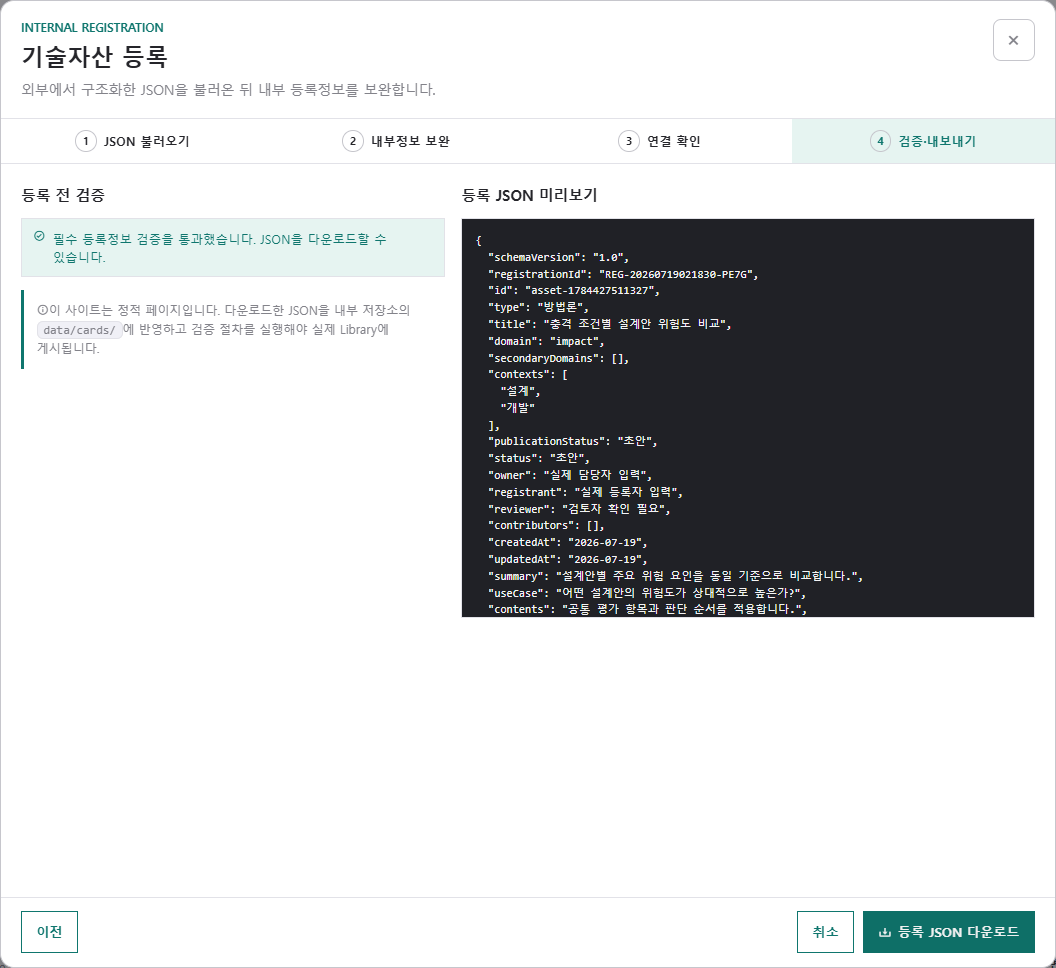
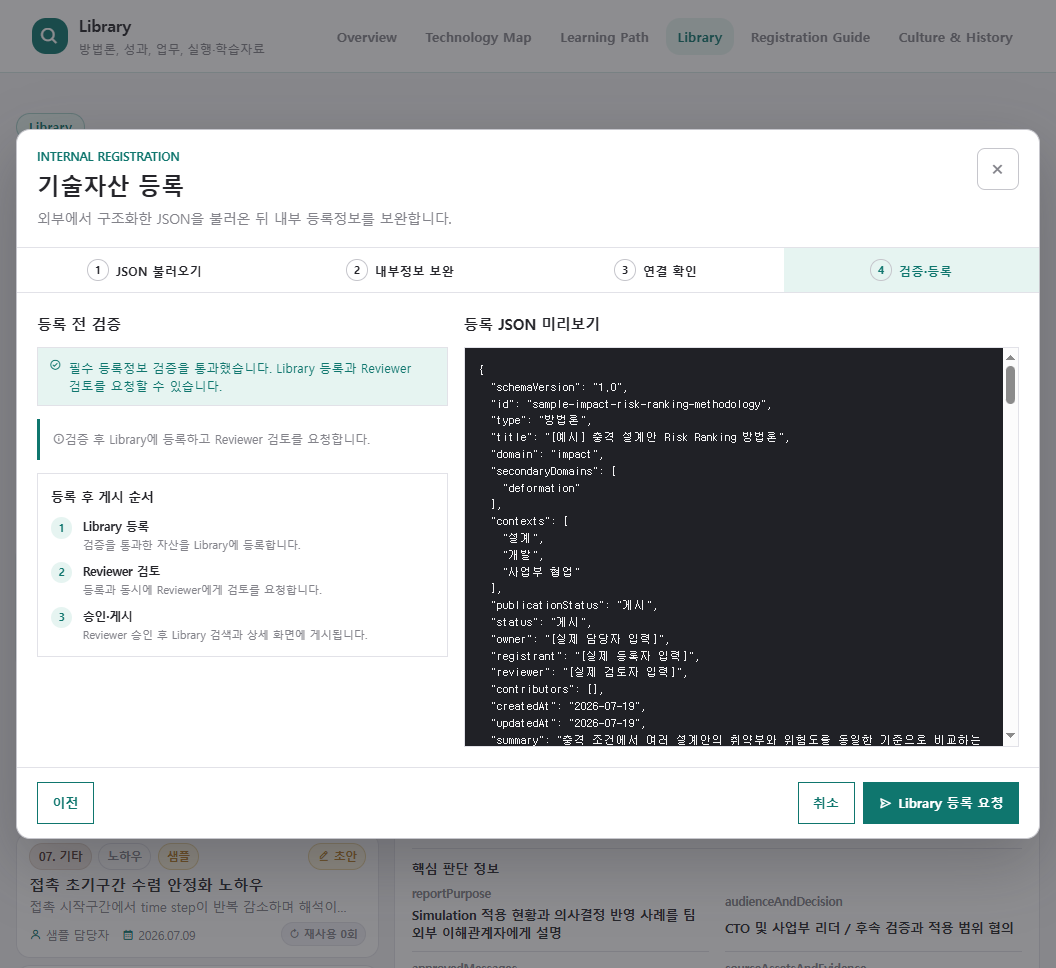
Align Library registration with internal submit flow

diff --git a/team_technical_assets_registration_modal.js b/team_technical_assets_registration_modal.js
@@ -44,6 +44,9 @@
     const importMessage = document.getElementById("registration-import-message");
     const preview = document.getElementById("registration-json-preview");
     const validation = document.getElementById("registration-validation");
+    const submitNote = document.getElementById("registration-submit-note") || form.querySelector(".registration-static-note");
+    const publishProcessTitle = document.getElementById("registration-publish-process-title");
+    const publishProcessList = document.getElementById("registration-publish-process-list") || form.querySelector(".registration-publish-process ol");
     const runtime = window.TECHNICAL_ASSET_RUNTIME ?? { mode: "static" };
     const repository = typeof window.createTechnicalAssetRepository === "function"
         ? window.createTechnicalAssetRepository(runtime)
@@ -60,6 +63,23 @@
     let internalLinks = [];
     let relationSearchPerformed = false;
     let registrationId = "";
+
+    function configureRegistrationCompletionUi() {
+        const finalIndicator = form.querySelector('[data-registration-step-indicator="4"]');
+        if (finalIndicator) finalIndicator.innerHTML = "<span>4</span>검증·등록";
+
+        if (submitNote) {
+            submitNote.innerHTML = '<i class="bx bx-info-circle"></i>검증 후 Library에 등록하고 Reviewer 검토를 요청합니다.';
+        }
+        if (publishProcessTitle) publishProcessTitle.textContent = "등록 후 게시 순서";
+        if (publishProcessList) {
+            publishProcessList.innerHTML = `
+                <li><span>1</span><div><strong>Library 등록</strong><p>검증을 통과한 자산을 Library에 등록합니다.</p></div></li>
+                <li><span>2</span><div><strong>Reviewer 검토</strong><p>등록과 동시에 Reviewer에게 검토를 요청합니다.</p></div></li>
+                <li><span>3</span><div><strong>승인·게시</strong><p>Reviewer 승인 후 Library 검색과 상세 화면에 게시됩니다.</p></div></li>
+            `;
+        }
+    }
 
     const field = (name) => form.elements.namedItem(name);
     const text = (value) => String(value ?? "").trim();
@@ -584,9 +604,9 @@
         const errors = validateCard(card);
         validation.innerHTML = errors.length
             ? errors.map((error) => `<div class="registration-validation-item is-error"><i class="bx bx-error-circle"></i><span>${error}</span></div>`).join("")
-            : `<div class="registration-validation-item is-success"><i class="bx bx-check-circle"></i><span>${isApiMode ? "필수 등록정보 검증을 통과했습니다. 사내 Library에 초안으로 저장할 수 있습니다." : "필수 등록정보 검증을 통과했습니다. 게시 요청용 JSON을 다운로드할 수 있습니다."}</span></div>`;
+            : '<div class="registration-validation-item is-success"><i class="bx bx-check-circle"></i><span>필수 등록정보 검증을 통과했습니다. Library 등록과 Reviewer 검토를 요청할 수 있습니다.</span></div>';
         preview.textContent = JSON.stringify(card, null, 2);
-        downloadButton.disabled = errors.length > 0;
+        downloadButton.disabled = errors.length > 0 || !repository;
     }
 
     function setStep(step) {
@@ -604,9 +624,7 @@
         previousButton.hidden = step === 1;
         nextButton.hidden = step === 4;
         downloadButton.hidden = step !== 4;
-        downloadButton.innerHTML = isApiMode
-            ? '<i class="bx bx-save"></i> Library 초안 저장'
-            : '<i class="bx bx-download"></i> 검증 완료 JSON 다운로드';
+        downloadButton.innerHTML = '<i class="bx bx-send"></i> Library 등록 요청';
         nextButton.textContent = step === 3 ? "검증하기" : "다음";
         nextButton.disabled = step === 1 && !sourcePacket;
         if (step === 3) {
@@ -774,8 +792,9 @@
         if (isApiMode && repository) {
             downloadButton.disabled = true;
             try {
-                await repository.createAsset({ ...card, workflowStatus: "초안" });
-                window.alert("사내 Library에 초안을 저장했습니다.");
+                const created = await repository.createAsset({ ...card, workflowStatus: "초안" });
+                await repository.submitAsset(created?.id || card.id);
+                window.alert("사내 Library 등록을 완료하고 Reviewer 검토를 요청했습니다.");
                 closeDialog();
             } catch (error) {
                 window.alert(error.message || "초안 저장 중 오류가 발생했습니다.");
@@ -784,17 +803,14 @@
             }
             return;
         }
-        const blob = new Blob([`${JSON.stringify(card, null, 2)}\n`], { type: "application/json;charset=utf-8" });
-        const anchor = document.createElement("a");
-        anchor.href = URL.createObjectURL(blob);
-        anchor.download = `${card.id}.json`;
-        anchor.click();
-        URL.revokeObjectURL(anchor.href);
+        window.alert("Library 등록과 Reviewer 검토 요청 흐름을 완료했습니다. Nexus 검토본에는 데이터가 저장되지 않습니다.");
+        closeDialog();
     });
     dialog.addEventListener("cancel", (event) => event.preventDefault());
     dialog.addEventListener("close", () => {
         document.body.classList.remove("asset-registration-open");
         window.setTimeout(() => returnFocus?.isConnected && returnFocus.focus({ preventScroll: true }), 0);
     });
+    configureRegistrationCompletionUi();
     if (window.location.hash === "#register") openDialog(document.getElementById("open-asset-registration"));
 })();

diff --git a/team_technical_assets_registration.js b/team_technical_assets_registration.js
@@ -328,7 +328,7 @@ const registrationStepDefinitions = [
         number: "04",
         phase: "INSIDE ONLY",
         title: "실제 정보 완성·검증·게시하기",
-        summary: "사내 정보 보완 → 게시용 등록 JSON 다운로드",
+        summary: "사내 정보 보완 → Library 등록·검토 요청",
         purpose: "일반화된 초안을 실제 사내 정보·근거·관계로 복원하고, 다른 팀원이 검색하고 재사용할 수 있는 Library 자산으로 완성합니다.",
         actions: [
             "실제 제목·조직·제품·과제 ID·조건·수치와 확인일을 사내에서 복원합니다.",
@@ -342,7 +342,7 @@ const registrationStepDefinitions = [
             "실제 근거와 원본 링크, 적용범위·한계·주의사항이 있습니다.",
             "검색 분류와 기존 자산 관계, Technology Map·Learning Path 연결 판단이 확인됐습니다.",
             "Owner·Reviewer와 사람의 최종 사실 확인을 완료했습니다.",
-            "검증을 통과한 JSON이 내부 저장소 data/cards/에 반영돼야 실제 Library에 게시된다는 점을 확인했습니다."
+            "검증을 통과한 자산을 사내 Library에 등록하고 Reviewer 검토를 요청했습니다."
         ],
         caution: "Library는 공식 원본 저장소를 대체하지 않습니다. AI가 제안한 분류·관계·성과는 사람이 승인하기 전까지 확정하지 않으며, 근거가 없는 내용은 ‘확인 필요’로 유지합니다."
     }
@@ -528,17 +528,17 @@ const registrationCompletionWalkthrough = [
     },
     {
         number: "04",
-        shortTitle: "검증·다운로드",
-        title: "검증 후 등록 JSON 다운로드",
-        description: "오류를 수정하고 최종 결과를 파일로 보존합니다.",
+        shortTitle: "검증·등록",
+        title: "검증 후 Library 등록",
+        description: "오류를 수정하고 사내 Library 등록과 Reviewer 검토를 요청합니다.",
         src: "assets/registration-guide/step4-04-review-download.png",
-        alt: "등록 전 검증과 최종 JSON 다운로드 모달 전체 화면",
+        alt: "등록 전 검증과 사내 Library 등록 요청 모달 전체 화면",
         regions: [
             ["1", "등록 전 검증", "1.5%", "18.5%", "41.1%", "45.9%", "system"],
-            ["2", "최종 JSON 확인", "43.2%", "18.5%", "55.3%", "45.9%", "registrant"],
-            ["3", "등록 JSON 다운로드", "81.3%", "93.6%", "17.2%", "5.4%", "registrant"]
+            ["2", "최종 등록 내용 확인", "43.2%", "18.5%", "55.3%", "45.9%", "registrant"],
+            ["3", "Library 등록 요청", "81.3%", "93.6%", "17.2%", "5.4%", "registrant"]
         ],
-        actions: ["검증 오류 수정 후 최종 JSON 확인", "다운로드 후 내부 저장소 반영"]
+        actions: ["검증 오류 수정 후 최종 내용 확인", "Library 등록과 Reviewer 검토 요청"]
     }
 ];
 
@@ -553,7 +553,7 @@ function createRegistrationCompletionWalkthrough() {
     walkthrough.innerHTML = `
         <header class="registration-capture-heading">
             <span class="registration-guide-label">ACTUAL SCREEN WALKTHROUGH</span>
-            <h3>JSON 반입 후 게시용 등록 JSON을 완성하는 순서</h3>
+            <h3>JSON 반입 후 사내 Library 등록을 완료하는 순서</h3>
             <p>반투명 박스가 각 단계에서 확인하거나 입력할 화면 영역을 표시합니다.</p>
             <ol class="registration-walkthrough-flow" aria-label="등록 완료 흐름">
                 ${registrationCompletionWalkthrough.map((step) => `<li><b>${step.number}</b><span>${step.shortTitle}</span></li>`).join("")}
@@ -561,7 +561,7 @@ function createRegistrationCompletionWalkthrough() {
             <div class="registration-role-legend" aria-label="입력 역할 구분">
                 ${Object.entries(roleLabels).map(([role, label]) => `<span class="is-${role}">${label}</span>`).join("")}
             </div>
-            <p class="registration-save-note"><strong>입력 유지</strong> 이전·다음 동안 유지 · 취소 시 초기화 · 검증 후 게시용 등록 JSON 다운로드</p>
+            <p class="registration-save-note"><strong>입력 유지</strong> 이전·다음 동안 유지 · 취소 시 초기화 · 검증 후 Library 등록·Reviewer 검토 요청</p>
         </header>
         <div class="registration-walkthrough-list">
             ${registrationCompletionWalkthrough.map((step) => `

diff --git a/team_technical_assets_library.html b/team_technical_assets_library.html
@@ -126,7 +126,7 @@
                         <li class="is-active" data-registration-step-indicator="1"><span>1</span>JSON 불러오기</li>
                         <li data-registration-step-indicator="2"><span>2</span>내부정보 보완</li>
                         <li data-registration-step-indicator="3"><span>3</span>연결 확인</li>
-                        <li data-registration-step-indicator="4"><span>4</span>검증·JSON 다운로드</li>
+                        <li data-registration-step-indicator="4"><span>4</span>검증·등록</li>
                     </ol>
 
                     <div class="asset-registration-body">
@@ -212,13 +212,13 @@
                                 <div>
                                     <h3>등록 전 검증</h3>
                                     <div class="registration-validation" id="registration-validation" aria-live="polite"></div>
-                                    <p class="registration-static-note"><i class="bx bx-info-circle"></i>다운로드는 등록 완료가 아니라, 검증된 게시 요청 파일을 만드는 단계입니다.</p>
+                                    <p class="registration-static-note" id="registration-submit-note"><i class="bx bx-info-circle"></i>검증 후 사내 Library에 등록하고 Reviewer 검토를 요청합니다.</p>
                                     <section class="registration-publish-process" aria-labelledby="registration-publish-process-title">
-                                        <h4 id="registration-publish-process-title">다운로드 후 게시 순서</h4>
-                                        <ol>
-                                            <li><span>1</span><div><strong>JSON 저장</strong><p>검증을 통과한 등록 JSON을 다운로드합니다.</p></div></li>
-                                            <li><span>2</span><div><strong>사내에서 검사</strong><p><code>npm run register:check -- --file &lt;JSON 경로&gt;</code>로 계약과 연결을 확인합니다.</p></div></li>
-                                            <li><span>3</span><div><strong>반입·검증·게시</strong><p><code>npm run register:import -- --file &lt;JSON 경로&gt;</code> 후 <code>npm run check</code>를 통과해 Merge합니다.</p></div></li>
+                                        <h4 id="registration-publish-process-title">등록 후 게시 순서</h4>
+                                        <ol id="registration-publish-process-list">
+                                            <li><span>1</span><div><strong>Library 등록</strong><p>검증을 통과한 자산을 사내 Library에 등록합니다.</p></div></li>
+                                            <li><span>2</span><div><strong>Reviewer 검토</strong><p>등록과 동시에 Reviewer에게 검토를 요청합니다.</p></div></li>
+                                            <li><span>3</span><div><strong>승인·게시</strong><p>Reviewer 승인 후 Library 검색과 상세 화면에 게시됩니다.</p></div></li>
                                         </ol>
                                     </section>
                                 </div>
@@ -235,7 +235,7 @@
                         <span class="registration-footer-spacer"></span>
                         <button class="secondary-action-button" type="button" id="registration-cancel">취소</button>
                         <button class="asset-register-button" type="button" id="registration-next" disabled>다음</button>
-                        <button class="asset-register-button" type="button" id="registration-download" hidden><i class="bx bx-download"></i>검증 완료 JSON 다운로드</button>
+                        <button class="asset-register-button" type="button" id="registration-download" hidden><i class="bx bx-send"></i>Library 등록 요청</button>
                     </footer>
                 </form>
             </dialog>

diff --git a/team_technical_assets_registration.html b/team_technical_assets_registration.html
@@ -84,7 +84,7 @@
                         <small>같은 AI 대화창에 유형별 Prompt를 붙여 넣고, AI 답변에 첨부된 Handoff .json 파일을 다운로드합니다.</small>
                     </li>
                     <li><span>3</span><strong>JSON 확인·사내 반입하기</strong><small>다운로드한 .json 파일 또는 코드 블록으로 직접 저장한 UTF-8 파일을 검토한 뒤 승인된 방식으로 사내 등록 화면에 가져옵니다.</small></li>
-                    <li><span>4</span><strong>실제 정보로 완성하기</strong><small>사내에서 실제 용어·근거·원본 링크를 복원하고, 중복 자산과 Framework 연결 판단, Owner·Reviewer 검토까지 완료합니다.</small></li>
+                    <li><span>4</span><strong>사내 Library에 등록하기</strong><small>실제 용어·근거·원본 링크와 관계를 완성한 뒤 Library에 등록하고 Reviewer 검토를 요청합니다.</small></li>
                 </ol>
                 <p class="registration-process-rule"><i class="bx bx-check-circle"></i><strong>확정 원칙</strong> 음성 파일을 별도로 전사하지 않습니다. 음성 또는 텍스트로 설명한 동일한 대화창에서 JSON까지 생성하고, 실제 정보는 외부 대화가 아니라 사내 등록 화면에서만 복원합니다.</p>
             </section>

diff --git a/docs/INTERNAL_LIBRARY_REGISTRATION.md b/docs/INTERNAL_LIBRARY_REGISTRATION.md
@@ -1,39 +1,28 @@
-# 사내 Library 카드 등록 절차
+# 사내 Library 카드 직접 등록 절차
 
 ## 목적
 
-Library 등록 화면에서 다운로드한 카드 JSON을 사내 GitLab 저장소의 `data/cards/`에 안전하게 반입하고, 생성 데이터와 시험을 통과한 변경만 Merge하기 위한 절차다. Codex나 Cline 없이 PowerShell과 Node.js만으로 실행할 수 있다.
+외부 AI에서 만든 Handoff JSON을 3단계에서 사내로 반입한 뒤, 4단계의 사내 Library 등록 화면에서 실제 정보와 관계를 완성하고 직접 등록·검토 요청하는 절차다. 사내 등록 화면에서 게시용 JSON을 다시 다운로드하지 않는다.
 
 ## 운영 원칙
 
-- `data/cards/*.json`이 카드 원본이다.
-- `team_technical_assets_data.js`는 생성 파일이므로 직접 수정하지 않는다.
-- 등록 화면의 다운로드는 게시 완료가 아니라 게시 요청 JSON 생성이다.
+- 외부 AI Handoff JSON은 환경 간 이동을 위한 반입 파일이며 Library 원본이 아니다.
+- 사내 등록 화면은 검증 후 `POST /assets`로 등록하고 `POST /assets/{assetId}/submit`으로 Reviewer 검토를 요청한다.
+- 사내 DB가 카드와 검토 이력의 단일 원본이다.
 - 실제 카드와 내부 링크는 사내 GitLab에만 저장한다.
-- 등록은 `main` 직접 수정이 아니라 Branch와 Merge Request로 진행한다.
+- Reviewer 승인 후에만 게시한다.
 - AI 사용 여부와 무관하게 수동 구조화와 사람 확인만으로 등록할 수 있다.
 
-## 1. Branch 생성
+## 사전조건
 
-```powershell
-$repo = "C:\path\to\team-technical-assets"
-Set-Location $repo
+- `team_technical_assets_runtime_config.js`가 `mode: "api"`로 설정돼 있다.
+- `apiBaseUrl`의 사내 Library API가 OpenAPI 계약을 구현한다.
+- 사내 로그인·등록자 식별과 Reviewer 권한 검사가 서버에서 동작한다.
+- 위 조건이 없으면 화면에서 직접 등록할 수 없다. 이 경우 두 번째 JSON 다운로드로 우회하지 않고 사내 API 구축 전 상태로 명시한다.
 
-git status --short --branch
-git checkout main
-git pull origin main
+## 1. 3단계 — Handoff JSON 사내 반입
 
-$branch = "register/$(Get-Date -Format yyyyMMdd)-asset-name"
-git checkout -b $branch
-```
-
-작업 트리에 기존 변경이 있으면 새 등록과 섞지 않는다.
-
-## 2. 다운로드 JSON 검사
-
-```powershell
-npm run register:check -- --file "$env:USERPROFILE\Downloads\asset-id.json"
-```
+외부 AI의 일반화 JSON을 승인된 방식으로 사내에 반입하고, 사내 Library의 `기술자산 등록` 화면에서 불러온다. 등록 화면이 JSON 파싱과 기본 계약을 검사하고 내부정보 보완 화면을 만든다.
 
 검사 항목:
 
@@ -44,31 +33,20 @@ npm run register:check -- --file "$env:USERPROFILE\Downloads\asset-id.json"
 - 기존 Library 관계 대상과 검색·재사용 대상
 - 게시 카드의 Reviewer·근거 링크·사람 확인
 
-오류가 있으면 JSON을 수정하고 다시 검사한다. `WARN`은 확인이 필요한 항목이며 자동 반입을 막지는 않지만 Reviewer가 판단해야 한다.
+오류가 있으면 등록 화면에서 반입을 중단한다. 실제 정보는 외부 JSON을 다시 만들지 않고 사내 화면에서 보완한다.
 
-## 3. `data/cards` 반입과 데이터 생성
+## 2. 4단계 — 실제 정보 완성
 
-```powershell
-npm run register:import -- --file "$env:USERPROFILE\Downloads\asset-id.json"
-```
+등록자는 실제 제목·ID·Owner·Reviewer, 사내 원본 링크, 기존 Library 관계, Technology Map·Learning Path 연결 판단을 완성한다. 추천 결과와 직접 검색한 결과를 구분하고, 여러 링크와 관계를 빠짐없이 확인한다.
 
-정상 반입 시 다음이 함께 수행된다.
+## 3. 검증·등록·검토 요청
 
-1. `data/cards/<asset-id>.json` 생성
-2. 전체 Library 계약 재검사
-3. `team_technical_assets_data.js` 재생성
+`Library 등록 요청`을 누르면 프런트엔드는 다음을 순서대로 수행한다.
 
-기존 ID와 같은 카드가 있으면 자동으로 덮어쓰지 않는다. 기존 카드 수정은 원본 파일을 직접 수정하고 변경 이력을 갱신한다.
-
-## 4. 전체 검사와 변경 확인
-
-```powershell
-npm run check
-git status --short
-git diff --stat
-git diff --check
-git diff -- data/cards team_technical_assets_data.js
-```
+1. 브라우저에서 필수정보와 관계를 검사한다.
+2. `POST /assets`로 사내 Library에 초안을 등록한다.
+3. 성공 응답의 자산 ID로 `POST /assets/{assetId}/submit`을 호출한다.
+4. Reviewer에게 검토 요청 상태로 전환한다.
 
 확인 사항:
 
@@ -78,32 +56,28 @@ git diff -- data/cards team_technical_assets_data.js
 - Technology Map·Learning Path 연결을 빠뜨리지 않았는가
 - 기존 카드·관계가 의도치 않게 바뀌지 않았는가
 
-## 5. Commit과 Merge Request
+## 4. Reviewer 승인·게시
 
-```powershell
-git add "data/cards/<asset-id>.json" team_technical_assets_data.js
-git diff --cached --check
-git commit -m "Register technical asset <asset-id>"
-git push -u origin $branch
-```
-
-Merge Request에서 Reviewer가 내용, 근거 링크, 공개 범위, 관계와 Framework 연결을 확인한다. Merge 후 `pages`, `pages:deploy`와 실제 Library 검색 결과를 확인한다.
+Reviewer는 사내 화면에서 내용, 근거 링크, 공개 범위, 관계와 Framework 연결을 확인한다. 수정이 필요하면 사유와 함께 반환하고, 승인할 때만 `/assets/{assetId}/publish`로 게시한다.
 
 ## 기존 카드 수정
 
 기존 카드는 새 파일로 중복 등록하지 않는다.
 
-1. `data/cards`에서 해당 ID를 가진 원본을 찾는다.
-2. `updatedAt`, 본문, 관계와 `changeLog`를 함께 수정한다.
-3. `npm run build:data`와 `npm run check`를 실행한다.
-4. 별도 Branch와 Merge Request로 제출한다.
+1. 사내 Library에서 해당 ID를 연다.
+2. 현재 `version`을 기준으로 본문·관계·링크를 수정한다.
+3. 서버는 `If-Match` 또는 version으로 동시 편집 충돌을 막는다.
+4. 변경 이력을 남기고 다시 Reviewer 검토를 요청한다.
+
+## 정적 JSON CLI의 지위
+
+`register:check`와 `register:import`는 기존 정적 데이터 이관, 초기 Seed, 장애 복구와 관리자용 검증 도구로만 유지한다. 일반 등록자가 4단계에서 게시용 JSON을 다시 다운로드하는 표준 절차로 사용하지 않는다.
 
 ## 장애 시 판단
 
 | 증상 | 판단 |
 | --- | --- |
-| `register:check` 오류 | 카드 JSON·계약 문제 |
-| `build:data` 오류 | 전체 카드 원본 또는 중복 ID 문제 |
-| `npm run check` 시험 실패 | 생성 결과·검색·계약 회귀 문제 |
-| Pipeline 시작 전 실패 | GitLab Runner·CI 환경 문제 |
-| Pipeline 성공 후 화면 미반영 | Pages Artifact·Cache·참조 경로 문제 |
+| Handoff JSON 불러오기 실패 | 외부 반입 JSON 형식·계약 문제 |
+| `POST /assets` 실패 | 인증·필수정보·중복 ID·API 문제 |
+| `/submit` 실패 | Reviewer·관계·검증 상태 문제 |
+| 승인 후 화면 미반영 | 게시 Transaction·검색 색인·Cache 문제 |